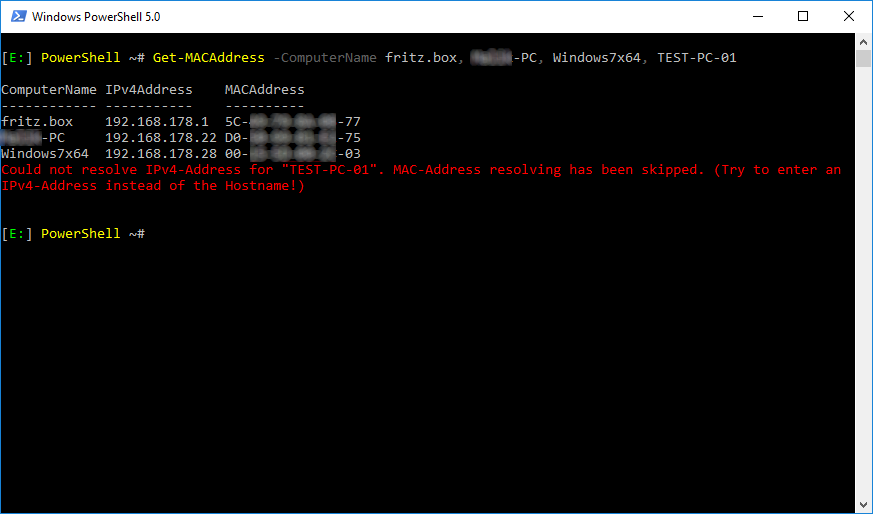
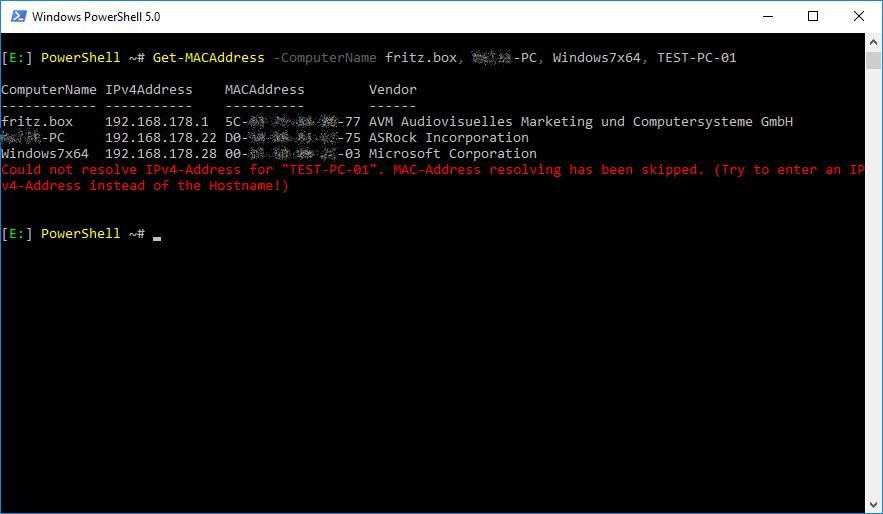
Documentation adapted

diff --git a/Documentation/Get-MACAddress.README.md b/Documentation/Get-MACAddress.README.md
@@ -32,9 +32,9 @@ Get-MACAddress [-ComputerName] <String[]> [<CommonParameters>]
 ```powershell
 PS> Get-MACAddress -ComputerName TEST-PC-01
     
-ComputerName IPv4Address    MACAddress
------------- -----------    ----------
-TEST-PC-01   192.168.178.20 1D-00-00-00-00-F0
+ComputerName IPv4Address    MACAddress        Vendor
+------------ -----------    ----------        ------
+TEST-PC-01   192.168.178.20 1D-00-00-00-00-F0 Cisco Systems, Inc
 ```
 
 ### Script
@@ -50,8 +50,9 @@ Could not resolve MAC-Address for TEST-PC-03 (192.168.178.21). Make sure that yo
 Could not resolve IPv4-Address for TEST-PC-04. MAC-Address resolving has been skipped. Try to enter an IPv4-Address
 instead of the Hostname!
 
-ComputerName IPv4Address    MACAddress
------------- -----------    ----------
-TEST-PC-01   192.168.178.20 1D-00-00-00-00-F0
-TEST-PC-03   192.168.178.22 1D-00-00-00-00-F1
+ComputerName IPv4Address    MACAddress        Vendor
+------------ -----------    ----------        ------
+TEST-PC-01   192.168.178.20 1D-00-00-00-00-F0 Cisco Systems, Inc
+TEST-PC-02   192.168.178.21 1D-00-00-00-00-F1 ASUSTek COMPUTER INC.
+
 ```
